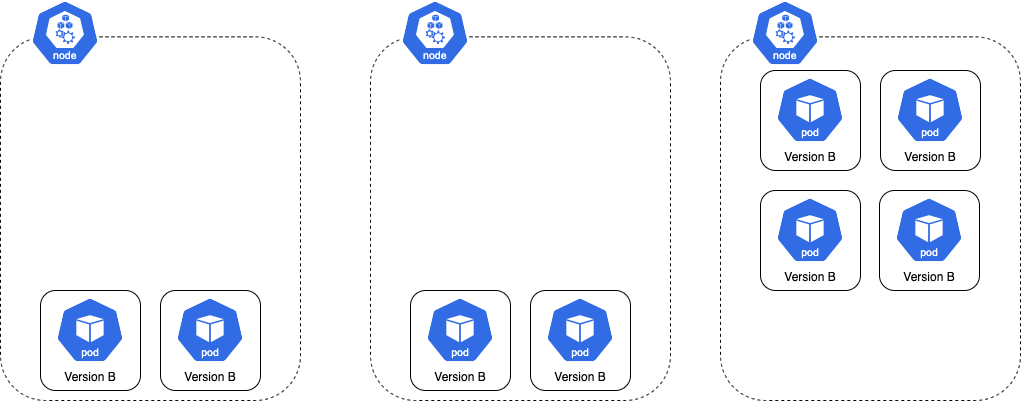
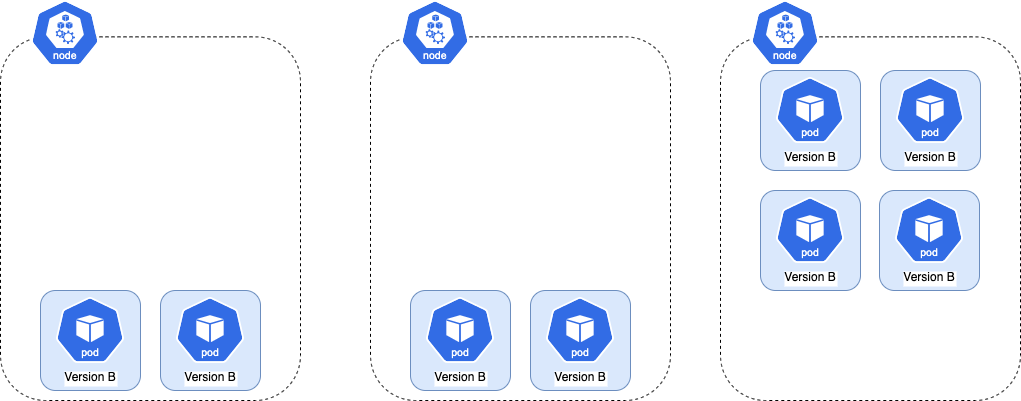
Revise wording and pictures

Changed region(s): [[0.7287, 0.1496, 0.9716, 0.7481], [0.3947, 0.7182, 0.6376, 0.9875], [0.0304, 0.7182, 0.2733, 0.9875]]

diff --git a/docs/features/anti-affinity/anti-affinity.md b/docs/features/anti-affinity/anti-affinity.md
@@ -1,37 +1,41 @@
-# Blue Green Anti Affinity
+# Anti Affinity
 
-Depending on a cluster's configuration, a Blue Green rollout (or Canary rollout that keeps the old version scaled at 100%) can cause newly created pods to restart after ~10 minutes.
+Depending on a cluster's configuration, a Blue Green Rollout (or a Canary rollout that uses traffic management) can cause newly created pods to restart after deploying a new version. This can be problematic, especially for applications that cannot startup quickly or do not gracefully exit.
 
-This can be problematic, especially for applications that cannot startup quickly or do not gracefully exit.
+This behavior occurs because cluster auto-scaler wants to scale down the extra capacity which was created to support a Rollout
+running in double capacity. It usually happens if a Rollout has its own dedicated instance group since a Rollout has a greater effect on
+cluster auto-scaling. Therefore, clusters with a large pool of shared nodes experience the behavior less often.
 
-This behavior usually happens when a rollout has its own dedicated instance group since a rollout has a greater effect on
-node auto-scaling. Therefore, clusters with a large pool of shared nodes experience the behavior less often.
-
-This occurs because node auto-scaler wants to scale down the extra capacity which was created to support a rollout
-running in double capacity. Here is a visual representation of the issue:
-
-Here is a Rollout is running with 8 pods spread across two nodes. Each node can hold 6 pods:
+For example, here is a Rollout is running with 8 pods spread across 2 nodes. Each node can hold 6 pods:
 ![ Original Rollout is running, spread across two nodes](images/step-0.png)
 
-When a new version is introduced, the total number of pods in the namespace doubles. In this case, the total increases
-to 16. Since each node can only hold 6 pods, the cluster autoscaler must increase the node count to 3 to accommodate
-the 4 extra pods. The resulting distribution of pods across nodes is shown here:
+When the `spec.template` of the Rollout changes, the controller creates a new ReplicaSet with the spec update and the total number of pods doubles. In this case, the number of pods increases
+to 16.
+
+Since each node can only hold 6 pods, the cluster autoscaler must increase the node count to 3 to accommodate
+all 16 pods. The resulting distribution of pods across nodes is shown here:
 ![ Rollout running at double capacity](images/step-1.png)
-Once the rollout finishes progressing, the previous version is scaled down. This leaves the cluster over-provisioned, as shown below.
+
+Once the Rollout finishes progressing, the old version is scaled down. This leaves the cluster with more nodes than necessary, thus wasting resources (as shown below).
 ![ Original Rollout is running, spread across two nodes](images/step-2.png)
-The node auto-scaler terminates the extra node and the pods are rescheduled on the 2 remaining nodes.
+
+The cluster auto-scaler terminates the extra node and the pods are rescheduled on the remaining 2 nodes.
 ![ Original Rollout is running, spread across two nodes](images/step-3.png)
 
-To reduce the likelihood of this behavior, a rollout can inject anti-affinity to prevent new pods from sharing a node with the previous version's pods.
-Then, when the new version is introduced, the node auto-scaler must increase the node count by 2 since the new pods cannot be scheduled on nodes which have the previous version's pods.
+To reduce the chance of this behavior, a rollout can inject anti-affinity. This prevents new pods on nodes which have the previous version's pods.
+
+You can learn more about anti-affinity [here](https://kubernetes.io/docs/concepts/configuration/assign-pod-node/).
+
+Repeating the above example with anti-affinity enabled, here is what happens when the `.spec.template` of the Rollout changes. Due to anti-affinity, the new pods cannot be scheduled on nodes which run the old ReplicaSet's pods.
+As a result, cluster auto-scaler must create 2 nodes to host the new ReplicaSet's pods. 
 ![ Original Rollout is running, spread across two nodes](images/solution.png)
 
+Anti-affinity is enabled by adding the anti-affinity struct to the Blue-Green or Canary strategy. When the anti-affinity struct is set, controller injects a PodAntiAffinity struct into the ReplicaSet's Affinity.
+This feature will not modify any of the ReplicaSet's pre-existing affinity rules. 
 
-Anti-affinity is enabled by adding the antiAffinity flag to the Blue-Green or Canary strategy, as shown below. It can be enabled for both Blue-Green and Canary Rollouts.
+Users have a choice between these scheduling rules: `RequiredDuringSchedulingIgnoredDuringExecution` and `PreferredDuringSchedulingIgnoredDuringExecution`.
 
-Users have a choice between RequiredDuringSchedulingIgnoredDuringExecution and PreferredDuringSchedulingIgnoredDuringExecution.
-
-RequiredDuringSchedulingIgnoredDuringExecution requires a new version's pods to be on a separate node than the previous versions. If this
+`RequiredDuringSchedulingIgnoredDuringExecution` requires a new version's pods to be on a separate node than the previous versions. If this
 is not possible, the the new version's pods will not be scheduled.
 
 ```yaml
@@ -41,16 +45,16 @@ strategy:
           requiredDuringSchedulingIgnoredDuringExecution: {}
 ```
 
-PreferredDuringSchedulingIgnoredDuringExecution does not require a new version's pods to be on a separate node than the previous versions.
-If the scheduler is unable to put the two versions on separate nodes, the new version's pods will still be scheduled.
+Unlike the Required strategy, `PreferredDuringSchedulingIgnoredDuringExecution` does not force a new version's pods to be on a separate node than the previous versions.
+The scheduler attempts to place the new version's pods on separate node(s). If that's not possible, the new version's pods will still be scheduled. The `Weight` is used to create a priority order for preferred anti-affinity rules. 
 
 ```yaml
 strategy:
     canary:
       antiAffinity:
           preferredDuringSchedulingIgnoredDuringExecution:
-            weight: 1
+            weight: 1 # Between 1 - 100
 ```
 
-The big downside to this approach is that deploys would take much longer because pods would always trigger scale-up to
-fit the new stack on completely separate nodes.
+The main downside to this approach is that deployments can take longer because new nodes are more likely to be created in order to schedule pods with respect to anti-affinity rules. This delay most frequently occurs when a rollout has its own dedicated instance group,
+since new nodes are more likely to be created to honor anti-affinity rules.
